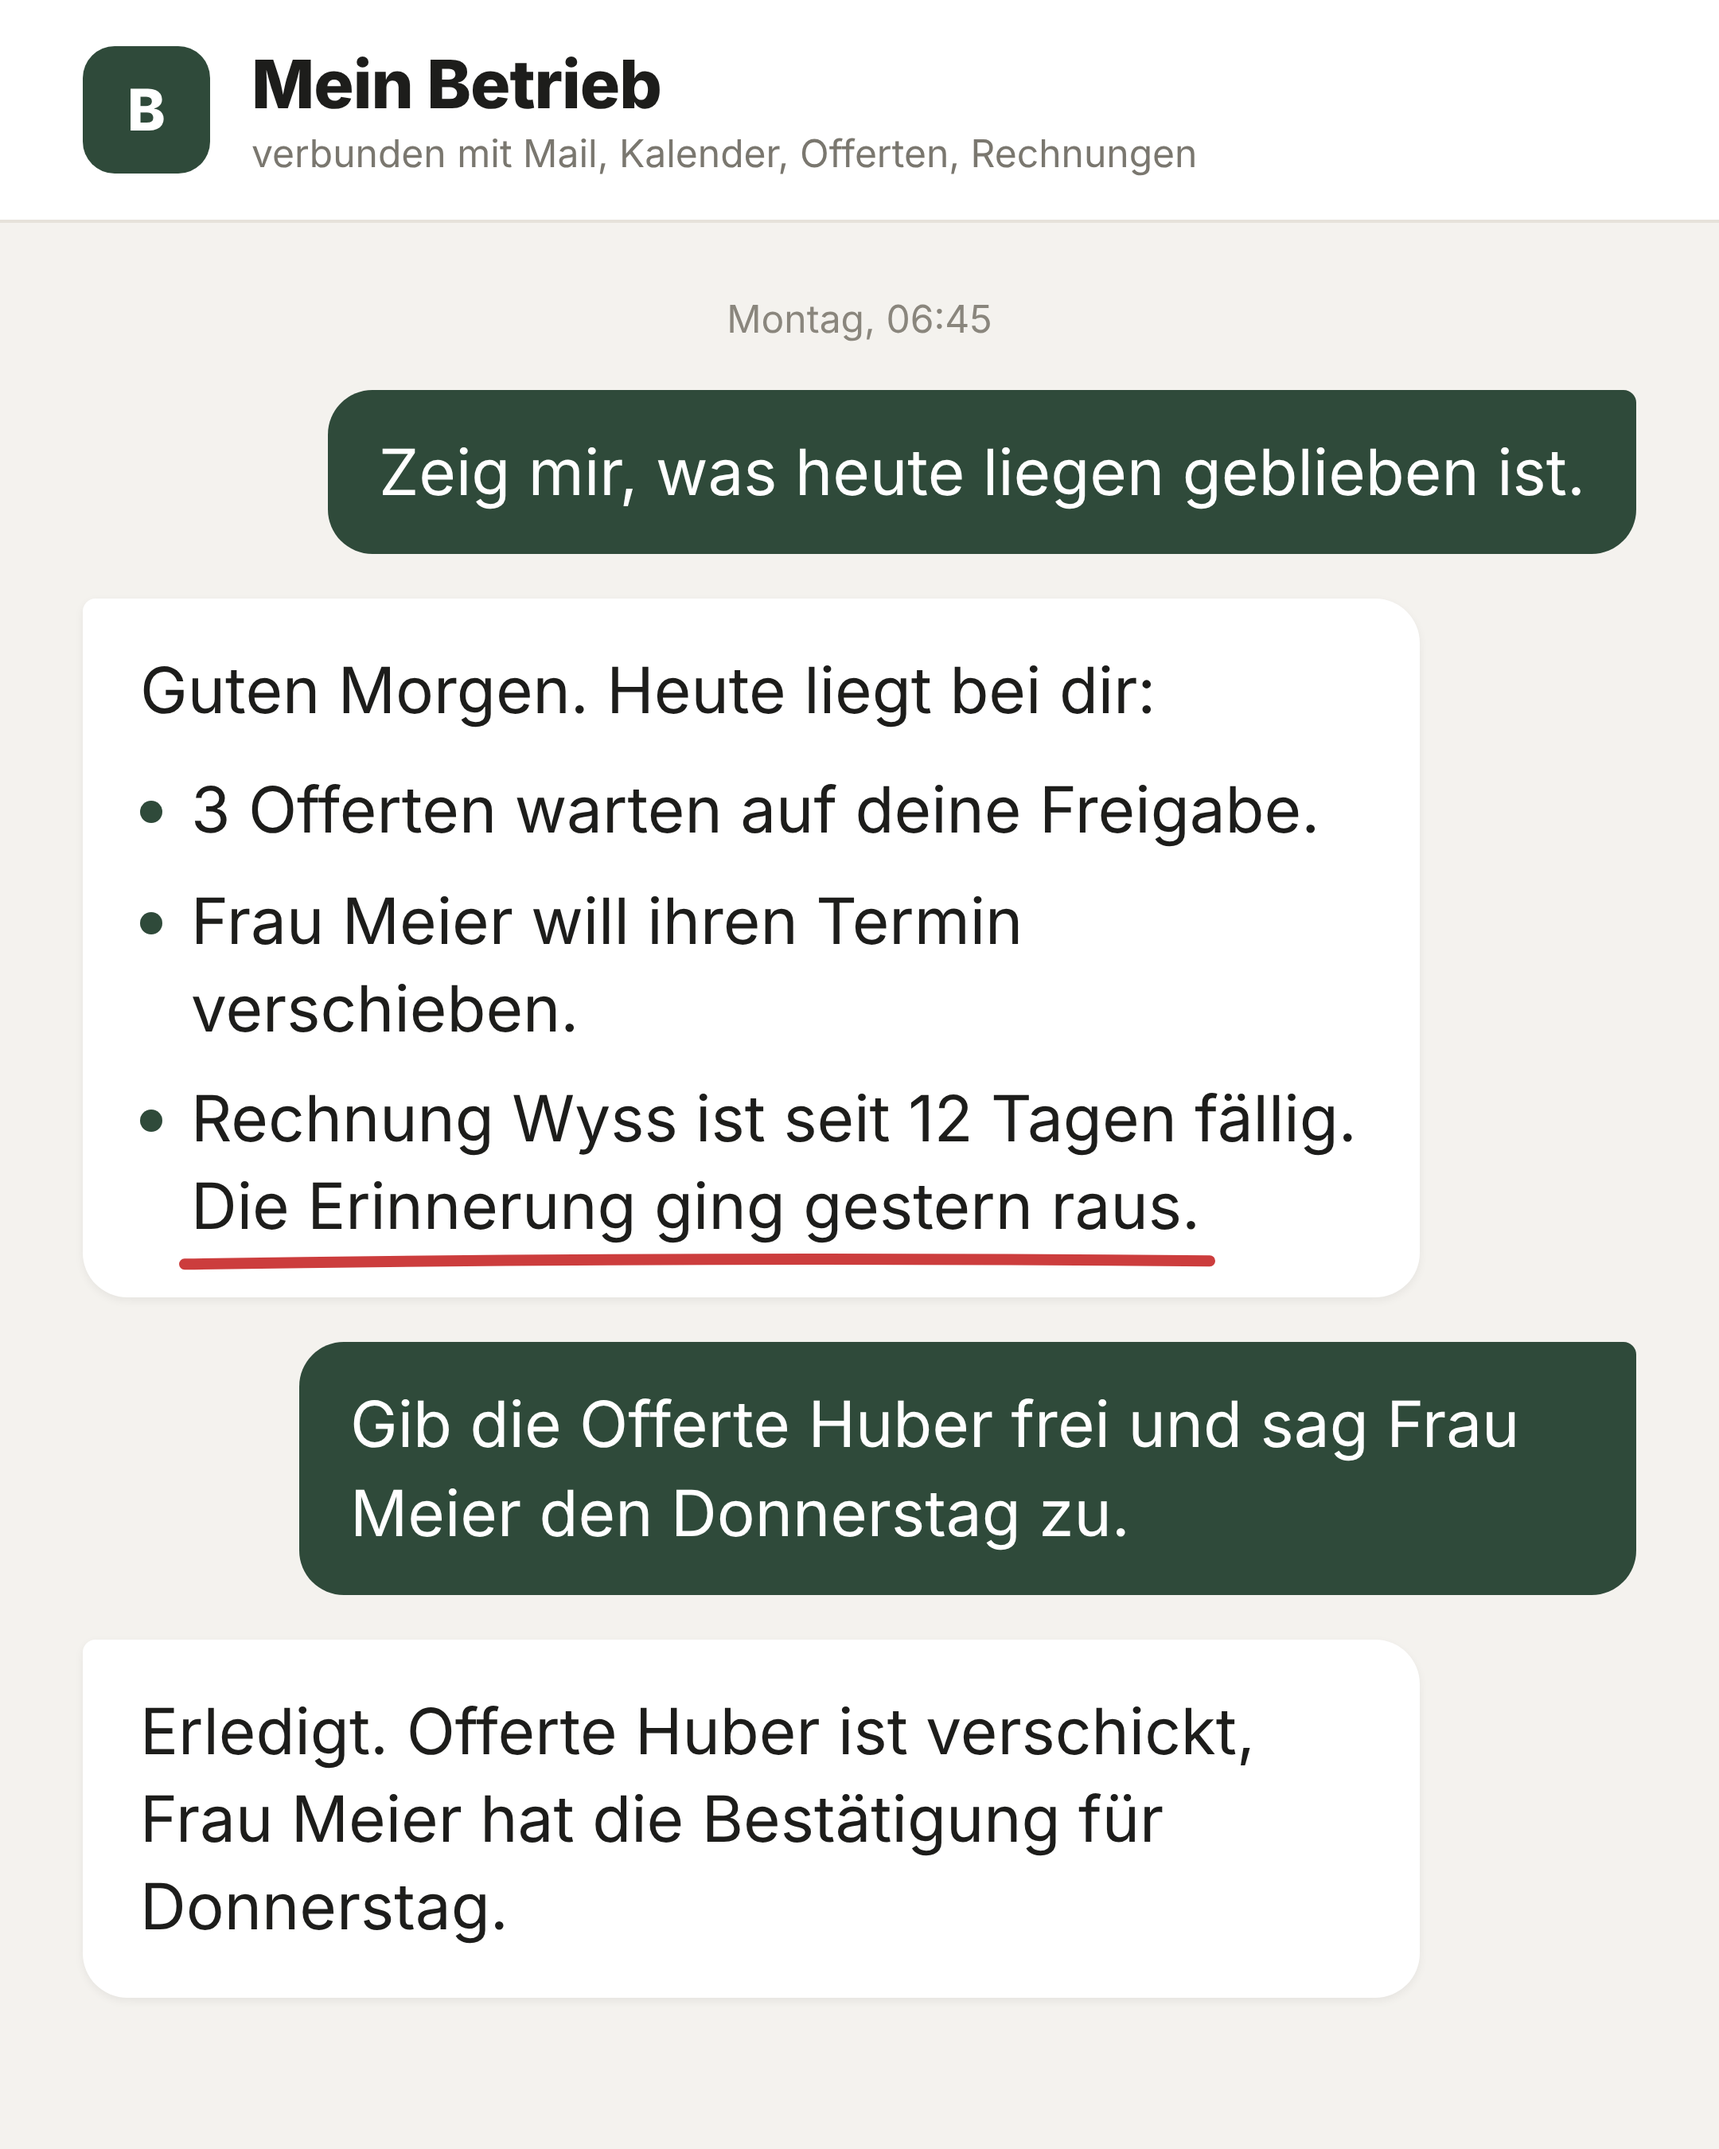
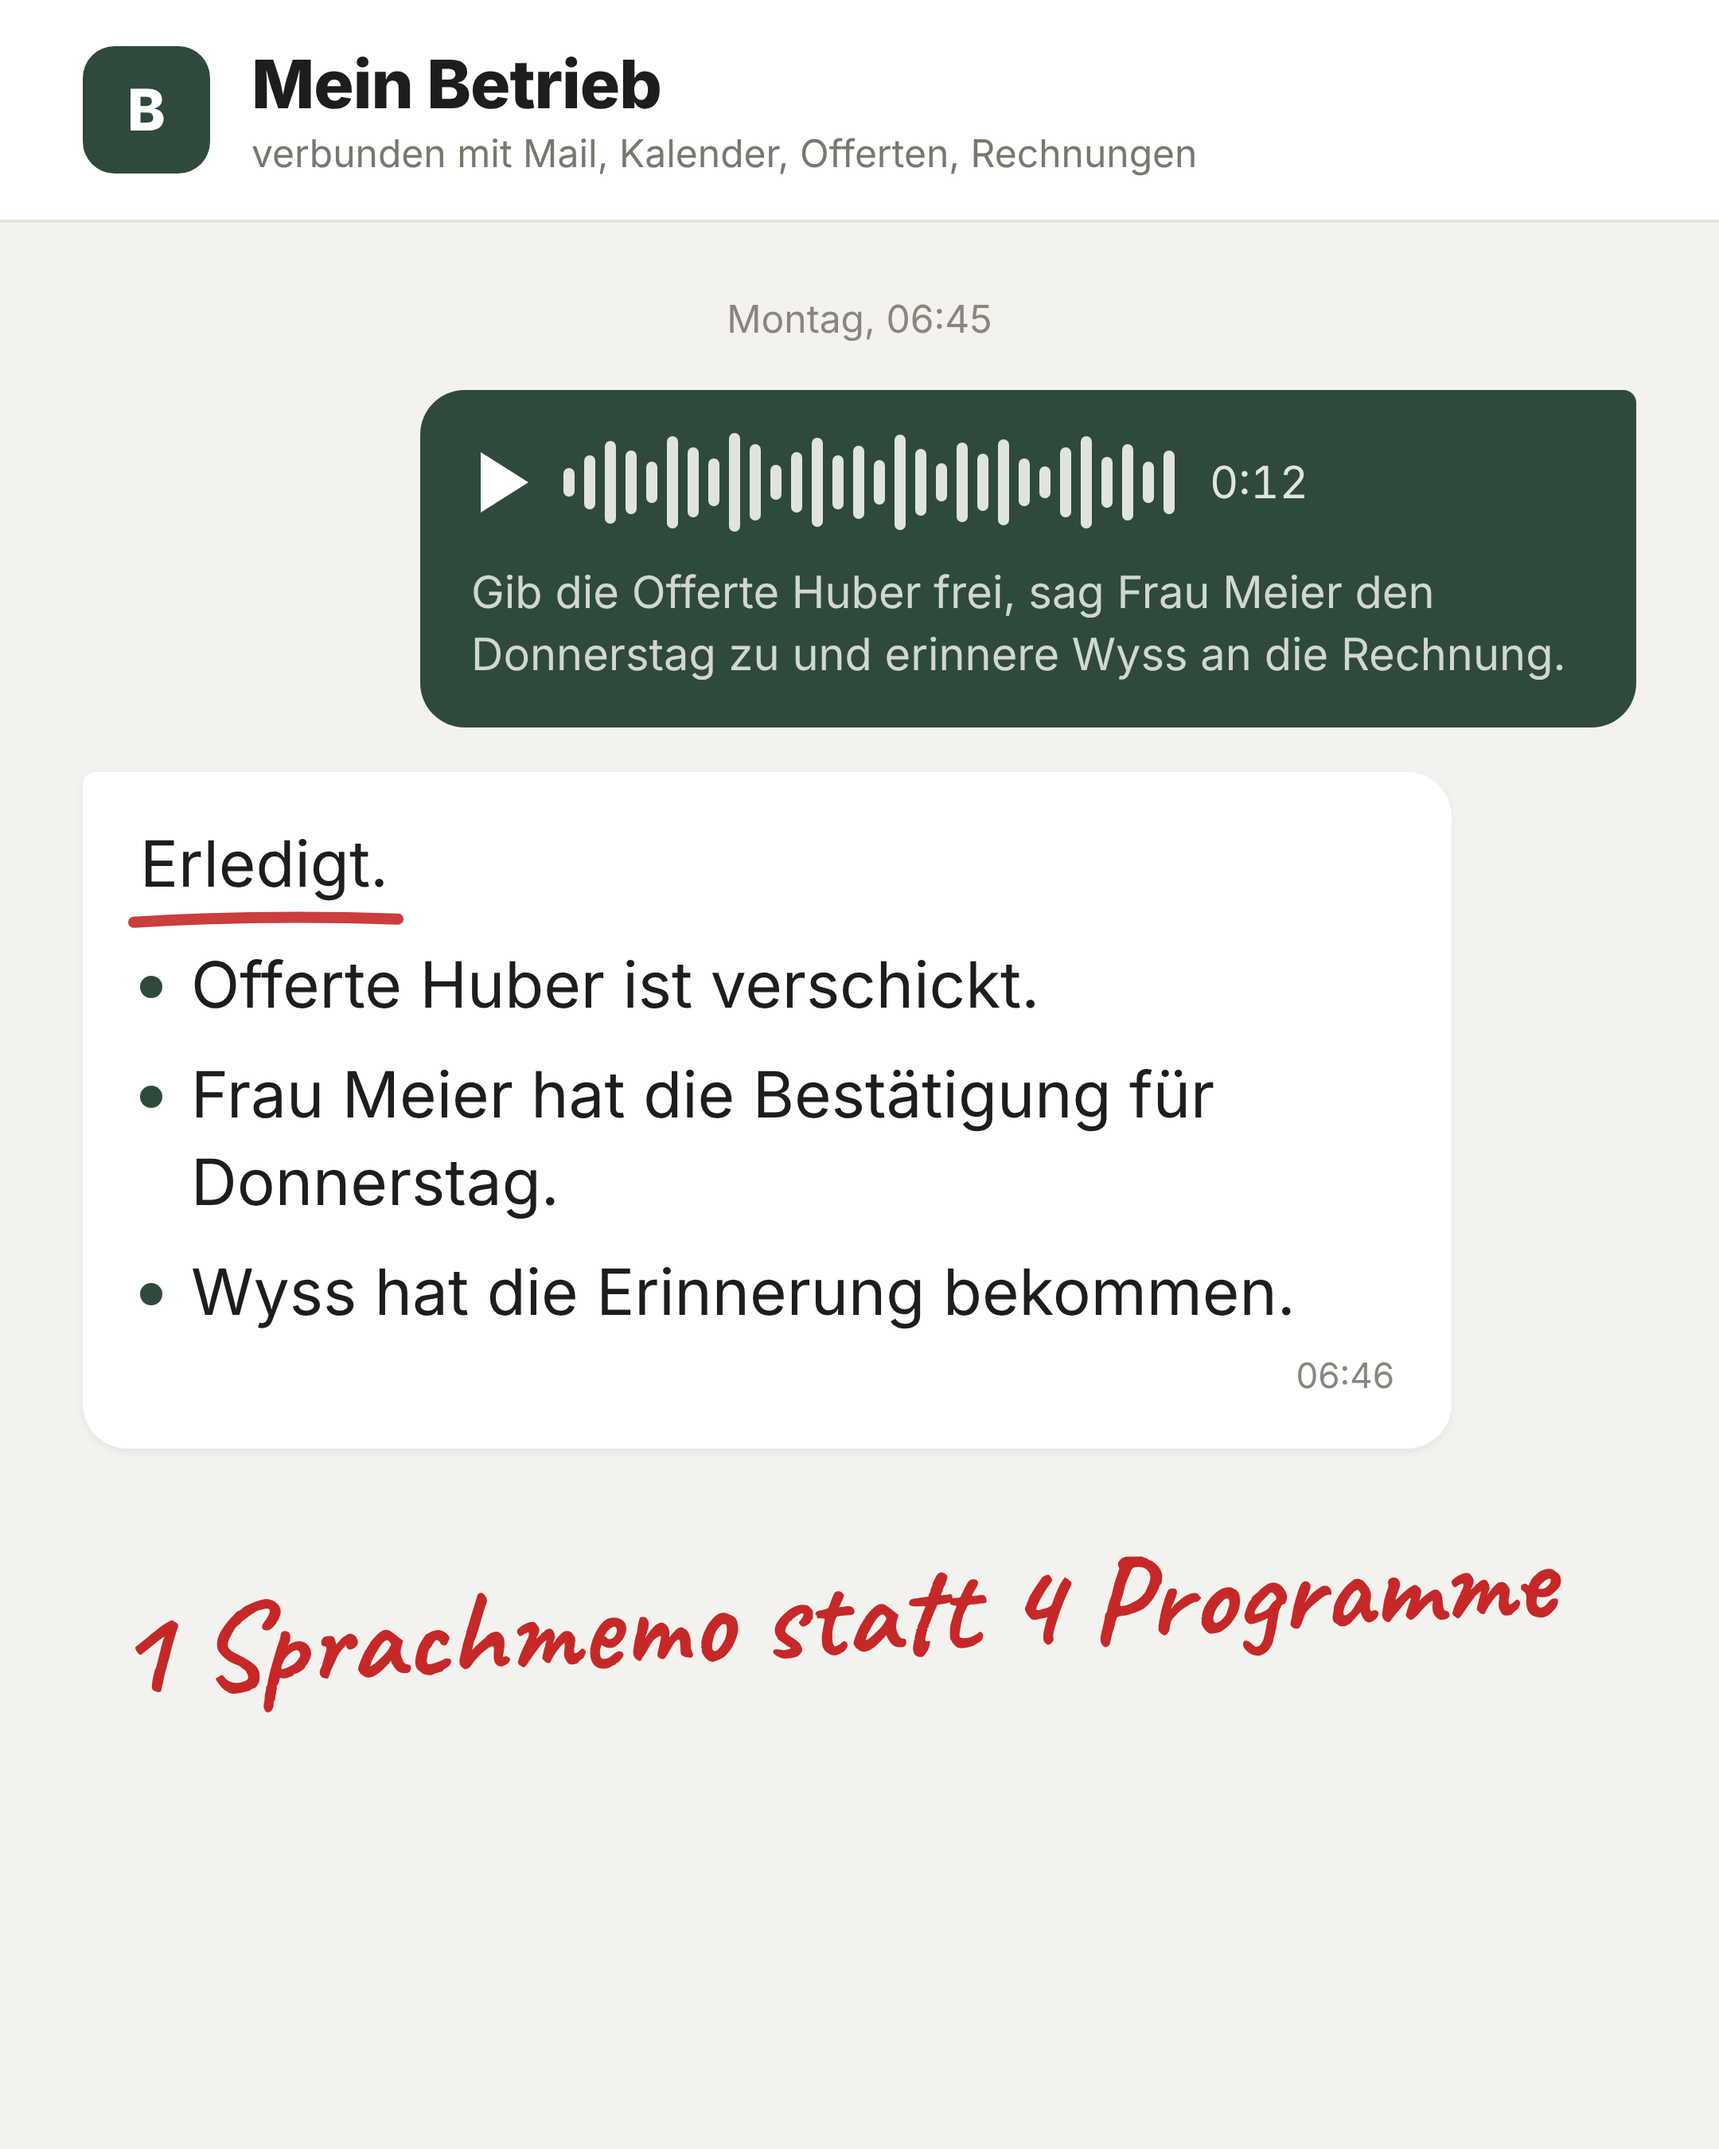
Post 10.11 als fliessende Geschichte, Kern Sprachmemo, Bild neu
Claude-Session: https://claude.ai/code/session_011uqJThEvfyZaZ27wjBcmdt

Changed region(s): [[0.062, 0.1556, 0.9616, 0.9022]]

diff --git a/fotos/bild-chat-betrieb.html b/fotos/bild-chat-betrieb.html
@@ -12,39 +12,52 @@
 .sub{font-size:24px;color:#7a776f;margin-top:4px;}
 .chat{padding:46px 52px;}
 .zeit{text-align:center;font-size:24px;color:#8a867d;margin-bottom:30px;}
-.b{width:fit-content;max-width:840px;border-radius:28px;font-size:40px;line-height:1.38;margin-bottom:28px;}
-.du{margin-left:auto;background:#2f4a3a;color:#fff;padding:24px 32px;border-top-right-radius:8px;}
+.b{width:fit-content;max-width:860px;border-radius:28px;font-size:40px;line-height:1.38;margin-bottom:28px;}
+.du{margin-left:auto;background:#2f4a3a;color:#fff;padding:26px 32px;border-top-right-radius:8px;}
+.voice{display:flex;align-items:center;gap:22px;}
+.play{width:0;height:0;border-left:30px solid #fff;border-top:19px solid transparent;border-bottom:19px solid transparent;margin-left:6px;}
+.wave{display:flex;align-items:center;gap:6px;height:64px;}
+.wave i{display:block;width:7px;border-radius:4px;background:rgba(255,255,255,.85);}
+.dauer{font-size:28px;opacity:.85;font-variant-numeric:tabular-nums;}
+.trans{font-size:28px;line-height:1.4;opacity:.78;margin-top:18px;max-width:700px;}
 .er{background:#fff;padding:30px 36px;border-top-left-radius:8px;box-shadow:0 2px 6px rgba(0,0,0,.06);}
 .er .p{display:flex;gap:18px;margin-top:14px;}
 .er .p:first-of-type{margin-top:20px;}
 .er .dot{flex:none;width:14px;height:14px;border-radius:50%;background:#2f4a3a;margin-top:22px;}
+.t{font-size:22px;color:#8a867d;margin-top:10px;text-align:right;}
+.rot{position:absolute;font-family:'Caveat',cursive;font-weight:700;color:#c62828;white-space:nowrap;line-height:1;transform-origin:0 0;font-size:76px;transform:rotate(-3deg);}
 svg.mk{position:absolute;left:0;top:0;width:1080px;height:1350px;overflow:visible;pointer-events:none;}
 </style></head><body>
 <div class="s" id="s">
   <div class="bar"><div class="av">B</div><div><div class="nm">Mein Betrieb</div><div class="sub">verbunden mit Mail, Kalender, Offerten, Rechnungen</div></div></div>
   <div class="chat">
     <div class="zeit">Montag, 06:45</div>
-    <div class="b du">Zeig mir, was heute liegen geblieben ist.</div>
-    <div class="b er">Guten Morgen. Heute liegt bei dir:
-      <div class="p"><span class="dot"></span><span>3 Offerten warten auf deine Freigabe.</span></div>
-      <div class="p"><span class="dot"></span><span>Frau Meier will ihren Termin verschieben.</span></div>
-      <div class="p"><span class="dot"></span><span>Rechnung Wyss ist seit 12 Tagen f&#228;llig. <span id="erl">Die Erinnerung ging gestern raus.</span></span></div>
+    <div class="b du"><div class="voice"><span class="play"></span><span class="wave" id="wave"></span><span class="dauer">0:12</span></div>
+      <div class="trans">Gib die Offerte Huber frei, sag Frau Meier den Donnerstag zu und erinnere Wyss an die Rechnung.</div></div>
+    <div class="b er" id="last"><span id="ok">Erledigt.</span>
+      <div class="p"><span class="dot"></span><span>Offerte Huber ist verschickt.</span></div>
+      <div class="p"><span class="dot"></span><span>Frau Meier hat die Best&#228;tigung f&#252;r Donnerstag.</span></div>
+      <div class="p"><span class="dot"></span><span>Wyss hat die Erinnerung bekommen.</span></div>
+      <div class="t">06:46</div>
     </div>
-    <div class="b du">Gib die Offerte Huber frei und sag Frau Meier den Donnerstag zu.</div>
-    <div class="b er"><span id="ok">Erledigt.</span> Offerte Huber ist verschickt, Frau Meier hat die Best&#228;tigung f&#252;r Donnerstag.</div>
   </div>
+  <div class="rot" id="r1">1 Sprachmemo statt 4 Programme</div>
   <svg class="mk" id="mk" viewBox="0 0 1080 1350"></svg>
 </div>
 <script>
+const h=[18,34,52,40,26,58,44,30,62,48,22,38,56,34,46,28,60,42,24,50,36,54,30,20,44,58,32,48,26,40];
+document.getElementById('wave').innerHTML=h.map(x=>`<i style="height:${x}px"></i>`).join('');
 document.fonts.ready.then(()=>{
   const S=document.getElementById('s').getBoundingClientRect();
   const red='#c62828';let svg='';
-  Array.from(document.getElementById('erl').getClientRects()).forEach(r=>{
+  Array.from(document.getElementById('ok').getClientRects()).forEach(r=>{
     const l=r.left-S.left, rr=r.right-S.left, y=r.bottom-S.top+10;
     svg+=`<path d="M ${l-4} ${y+2} Q ${(l+rr)/2} ${y-3} ${rr+6} ${y}" fill="none" stroke="${red}" stroke-width="7" stroke-linecap="round" opacity=".9"/>`;
   });
+  const L=document.getElementById('last').getBoundingClientRect();
+  const r1=document.getElementById('r1');r1.style.left='70px';r1.style.top=(L.bottom-S.top+90)+'px';
+  const R=r1.getBoundingClientRect();
   document.getElementById('mk').innerHTML=svg;
-  const last=document.querySelectorAll('.b');const L=last[last.length-1].getBoundingClientRect();
-  window.__ok={unten:Math.round(L.bottom-S.top)};
+  window.__ok={unten:Math.round(L.bottom-S.top),notiz:[Math.round(R.left-S.left),Math.round(R.right-S.left),Math.round(R.bottom-S.top)]};
 });
 </script></body></html>
